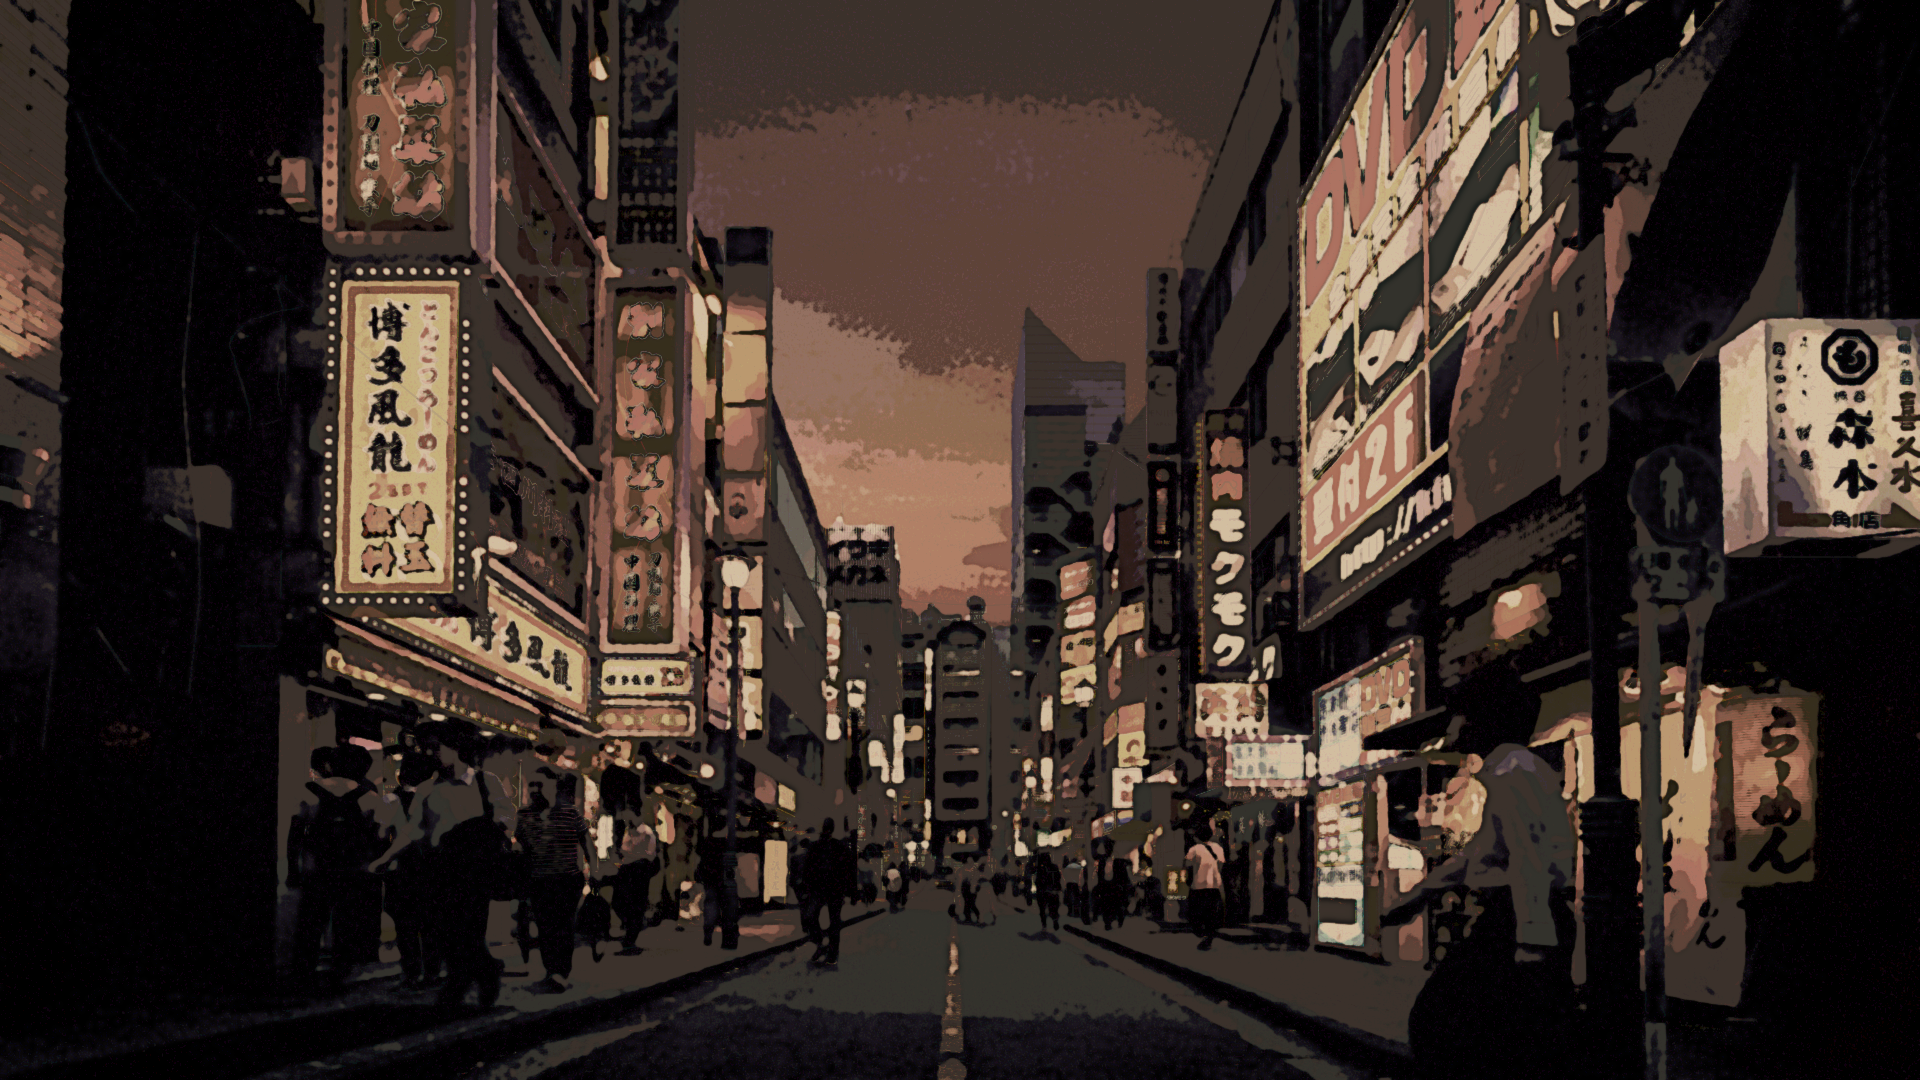
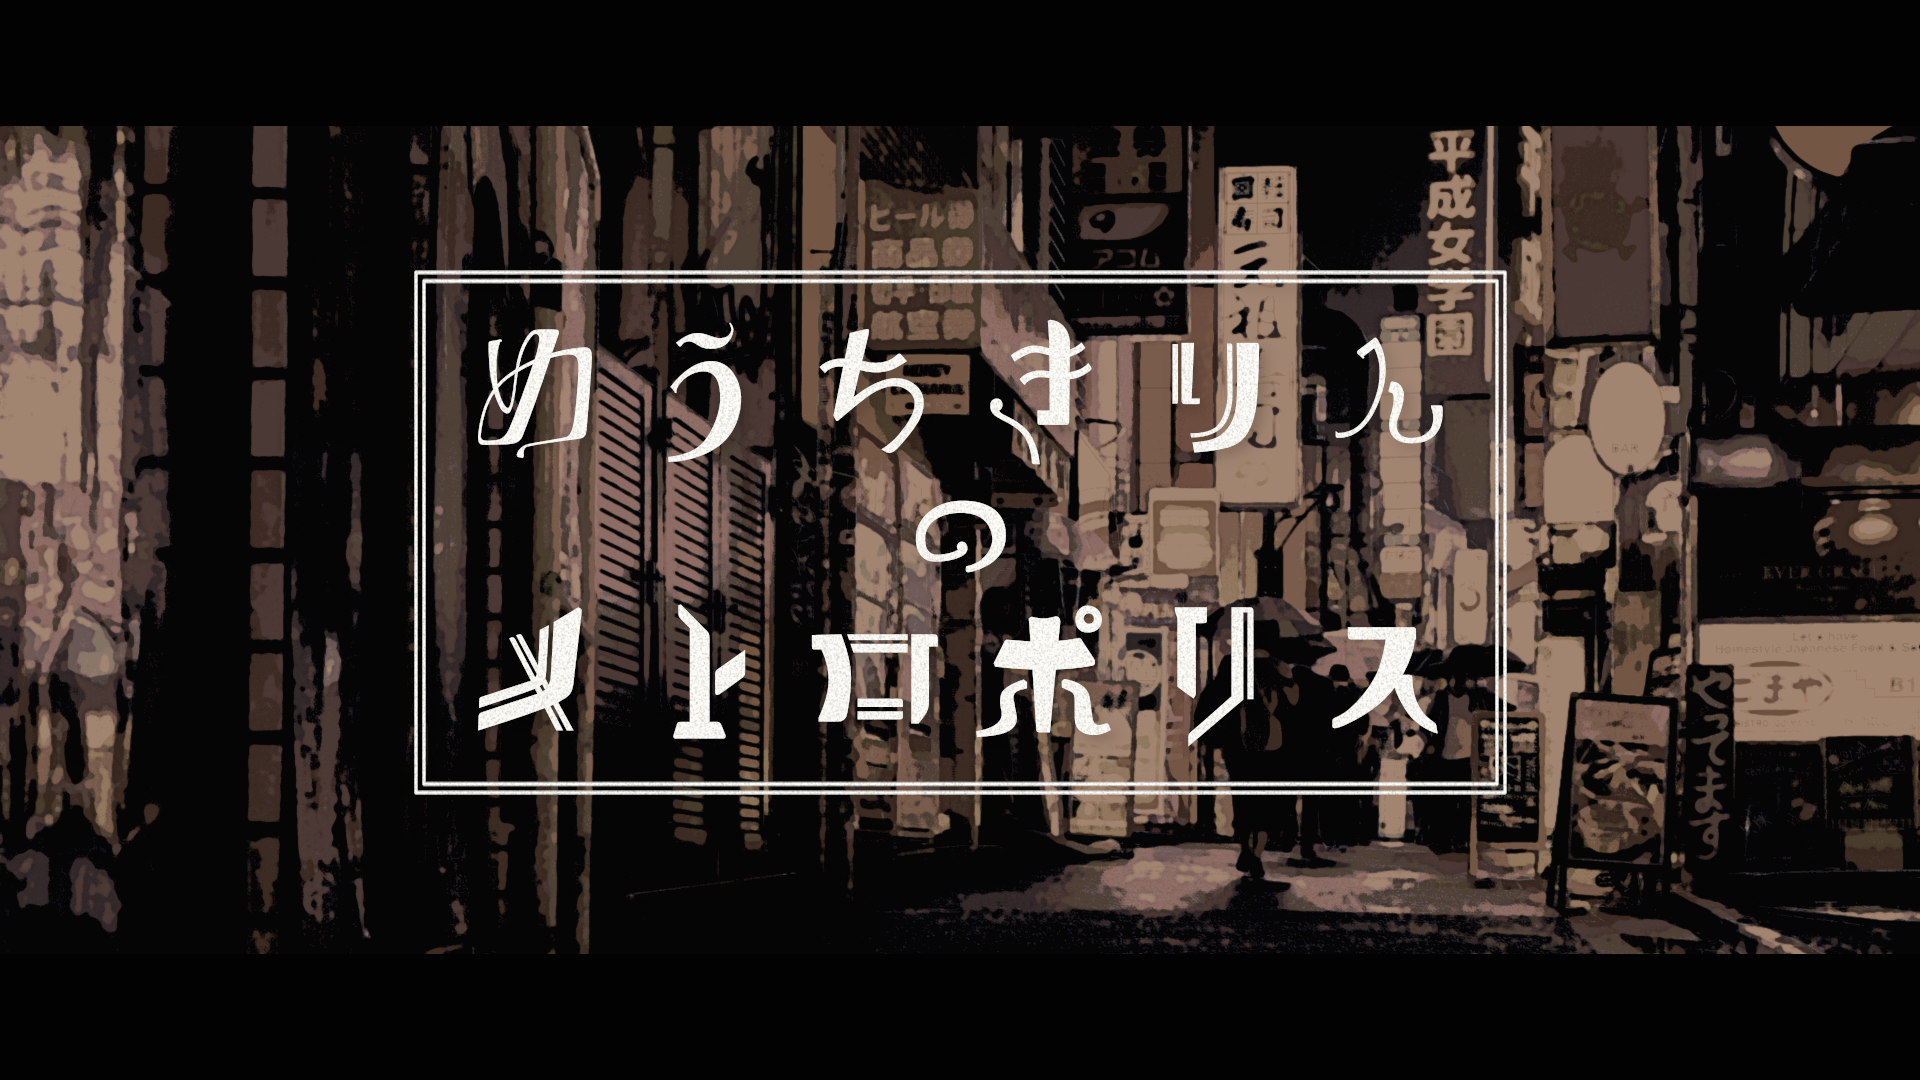
fix title

diff --git a/src/components/Start.vue b/src/components/Start.vue
@@ -1,8 +1,5 @@
 <template>
   <div class="start" id="start" @click="startToHome()">
-    <div class="top-cover"></div>
-    <div class="bottom-cover"></div>
-    <h1>めうちきりんの<br>メトロポリス</h1>
     <h2>画面をクリックしてください。</h2>
   </div>
 </template>
@@ -87,31 +84,15 @@ export default {
   position: relative;
 
   background-image: url('/static/img/theme.png');
-  background-size: cover;
+  background-size: 100vw 100vh;
 
   width: 100vw;
   height: 100vh;
 }
 
-  .start > h1 {
-    position: absolute;
-    top: 50%;
-    left: 50%;
-    transform: translateX(-50%) translateY(-50%);
-
-    font-size: 7rem;
-    text-align: center;
-
-    text-shadow: 0 10px 25px 0 rgba(2, 2, 2, .2);
-    box-shadow: 0 10px 25px 0 rgba(2, 2, 2, .2);
-    
-    border: 10px double #fbfaf5;
-    padding: 1rem;
-  }
-
   .start > h2 {
     position: absolute;
-    bottom: calc(3.5vh - 1rem);
+    bottom: calc(7.5vh - 1.5rem);
     left: 50%;
     transform: translateX(-50%);
 
@@ -124,21 +105,4 @@ export default {
       50% { opacity: 1; }
       100% { opacity: 0; }
     }
-
-.top-cover, .bottom-cover {
-  position: absolute;
-
-  background-color: #050505;
-
-  height: 7vh;
-  width: 100vw;
-}
-
-.top-cover {
-  top: 0;
-}
-
-.bottom-cover {
-  bottom: 0;
-}
 </style>
